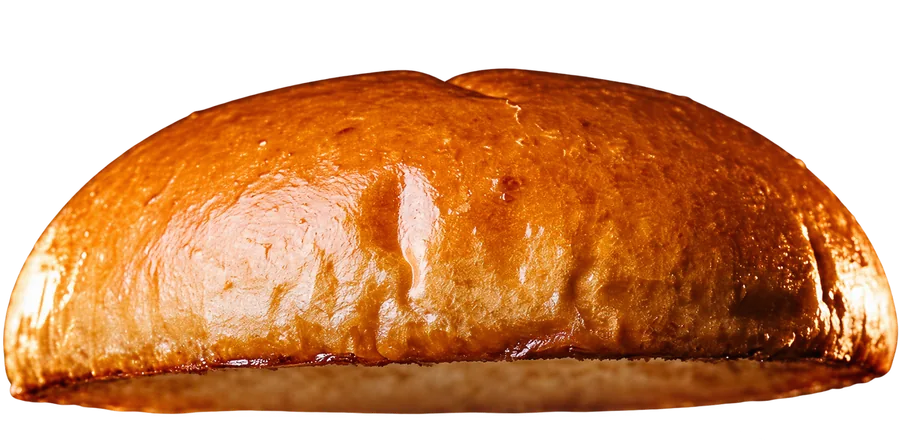
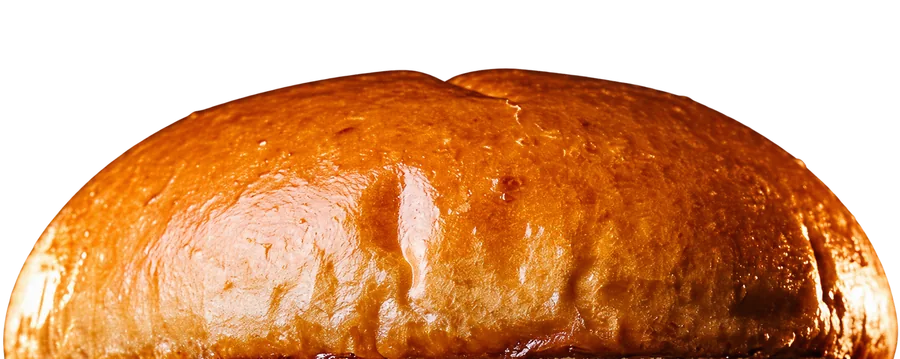
Beskär bort bullens snittyta, lås vridning 33° och separation 1,0×
1. A1 överbulle visade brödets snittyta — den jämnt ljusa undersidan
   under skorpkanten. I en staplad burgare är den dold av osten, men
   vid separation låg den överst och läste som fel sida av bullen.

   Radanalys av originalet lokaliserade gränsen: ljusstyrkan i mitten
   faller från 145 vid y=580 till ett minimum på 53 vid y=652, vilket
   är skorpkanten där rundningen slutar. Därefter stiger den till en
   jämn platå kring 107 helt utan specularer — snittytan. Beskärningen
   behåller till och med y=656 och klipper de sista 148 raderna.

   BESKAR-steget ligger i bildpipelinen, inte som en engångsredigering
   av filen, så originalet i kalla/ är orört och beslutet går att
   ändra genom att flytta en siffra.

   Placeringen: --t är matematiskt oberoende av beskärning nedtill
   (dukhöjden förkortas bort i uttrycket), så värdet står kvar. Vid
   viloläge möter bullens skorpkant nu osten direkt, utan glapp.
   Kontrollerat i webbläsaren.

   A1 gick från 900×440 till 900×359 och 85 kB till 73 kB.

2. Utgångsvärdena låsta: maxVrid 33 grader, sep 1,0. Reglagen i
   panelen speglar dem, vridningens övre gräns höjd till 45.

Ingen klippning vid de nya värdena. Mätt på synligt motiv, inte på
bildelementets ruta — bilderna har genomskinlig marginal nedtill som
gärna klipps utan att något syns. Marginal uppe 40-47 px och nere
83-106 px vid 900, 800, 720 och 660 px vyhöjd.

dist 505 kB, varav 392 kB bilder.

diff --git a/index.html b/index.html
@@ -165,7 +165,7 @@
             -->
             <div class="lager__scen" id="lager-scen">
               <span class="lager__bit" data-lager="overbulle" data-fart="-0.20" style="--z: 10">
-                <img src="/bilder/lager/A1.webp" alt="Överbulle" width="900" height="440" decoding="async" />
+                <img src="/bilder/lager/A1.webp" alt="Överbulle" width="900" height="359" decoding="async" />
               </span>
               <span class="lager__bit" data-lager="ost" data-fart="-0.10" style="--z: 8">
                 <img src="/bilder/lager/A2.webp" alt="Smält cheddar" width="900" height="889" decoding="async" />
@@ -191,11 +191,11 @@
             <div><dt>Vridning</dt><dd id="m-vrid">0°</dd></div>
             <div><dt>Separation</dt><dd id="m-sep">0 px</dd></div>
           </dl>
-          <label>Max vridning <output id="m-vrid-ut">18°</output>
-            <input type="range" id="m-vrid-reg" min="0" max="40" step="1" value="18" />
+          <label>Max vridning <output id="m-vrid-ut">33°</output>
+            <input type="range" id="m-vrid-reg" min="0" max="45" step="1" value="33" />
           </label>
-          <label>Separation <output id="m-sep-ut">0,7×</output>
-            <input type="range" id="m-sep-reg" min="0" max="25" step="1" value="7" />
+          <label>Separation <output id="m-sep-ut">1,0×</output>
+            <input type="range" id="m-sep-reg" min="0" max="25" step="1" value="10" />
           </label>
         </aside>
       </section>

diff --git a/src/main.js b/src/main.js
@@ -292,8 +292,8 @@ function riggaAvslojning() {
 /* ═══ 4 · LAGERSEKTIONEN + SCROLLVARVET ══════════════════════════ */
 
 const scenLage = {
-  maxVrid: 18, // grader
-  sep: 0.7 // multiplikator på lagrens fart
+  maxVrid: 33, // grader
+  sep: 1.0 // multiplikator på lagrens fart
 };
 
 function riggaScroll() {
